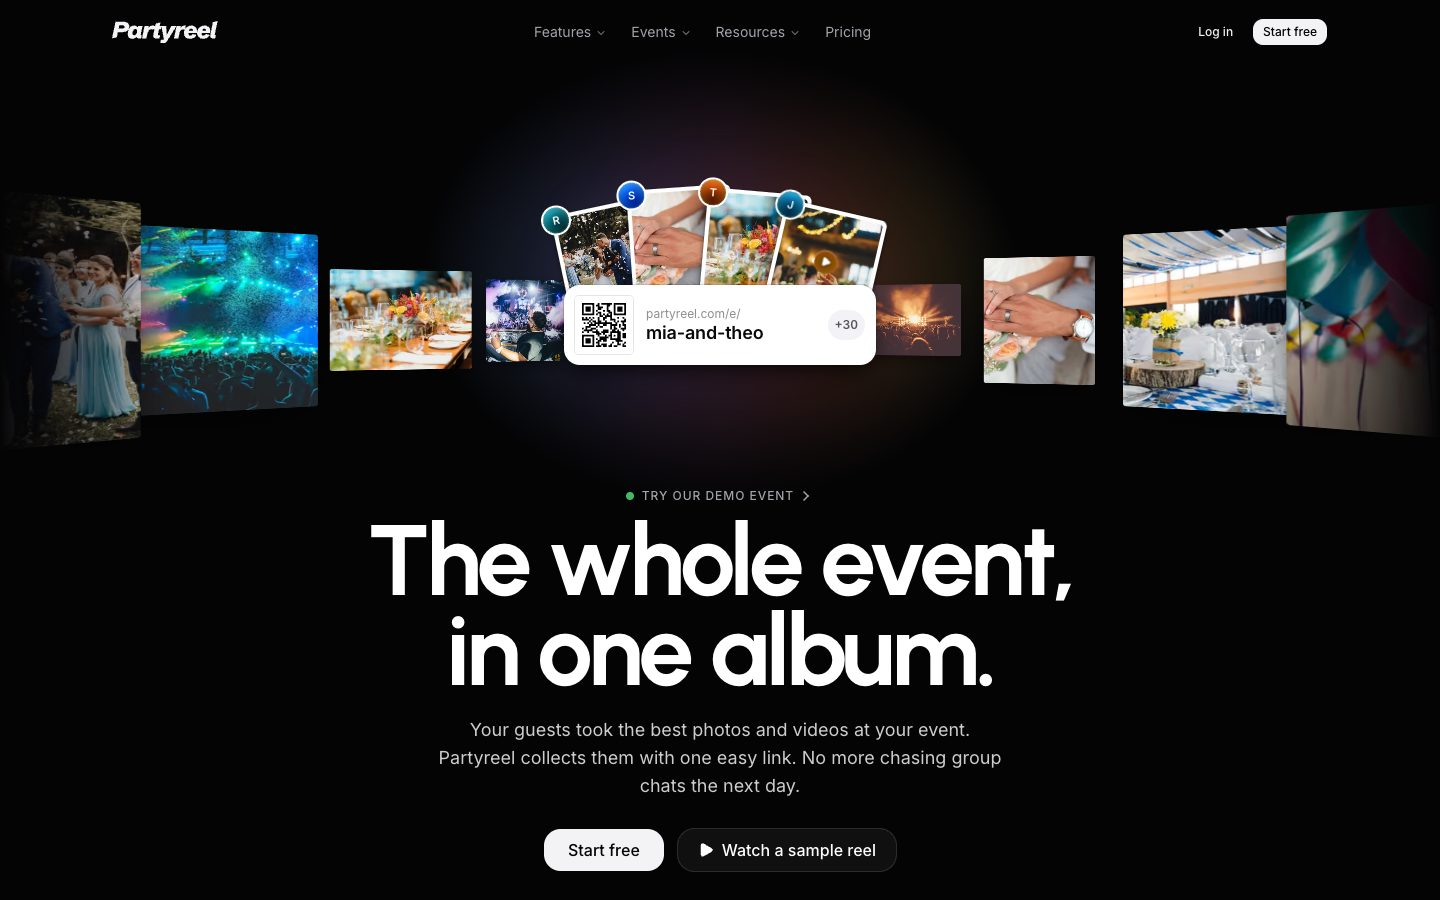
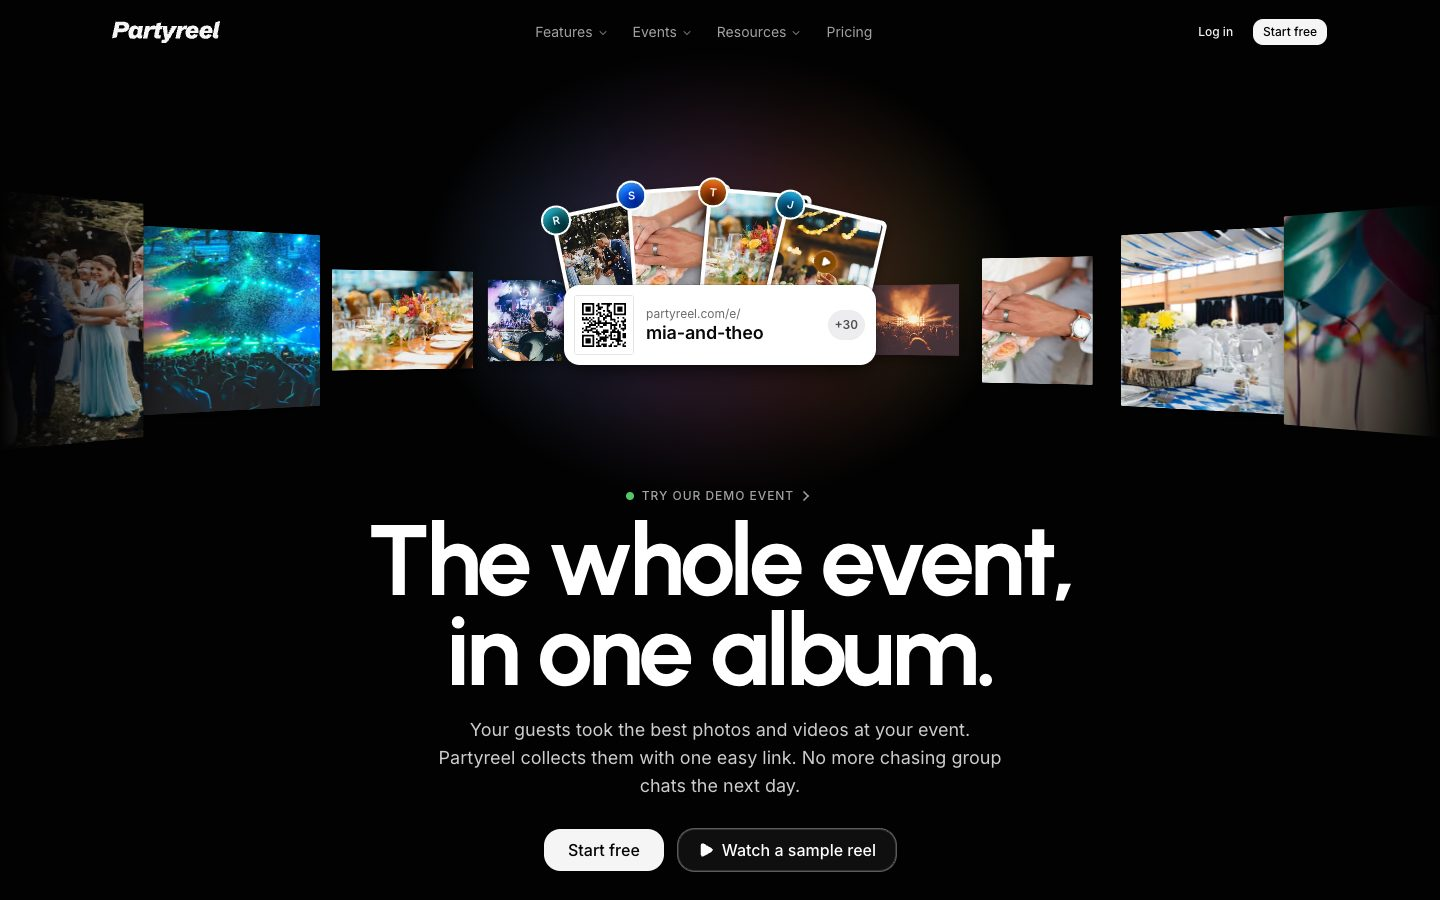
record: milestone 40 live (f1dfc6349, both projects READY, cdn-version's live check MISS then HIT); the kit's screens retaken from partyreel.com [skip ci]

diff --git a/docs/tracks/orchestrator.md b/docs/tracks/orchestrator.md
@@ -23,16 +23,16 @@ model Will seats (Fable or Opus); nothing here depends on which.
 
 ## In flight
 
-Desk 8's wave is in (2026-10-08 00:27Z; then the week 91%, the 5-hour window 75% to 02:10Z). Merged, recorded and
-pruned since its cut, gates 78 to 87 green: account-moments-wiring-2, create-wizard-wiring-2, guests-room-wiring,
-brand-marks-wiring, crumbs-91 (its migration applied on the Advisor's Q45 as 20261007230050), no-signal-wiring,
-crumbs-92 (on Q46 as 20261007233007, advisors 29/4/36, the types regenerated), cdn-version (86: X5's CDN cache, about
-30,000 to 9,600 calls at a lit 100-guest party; its call CL1), and the boards brand-marks-r2 (85: one ask, the icon) and
-event-page-r1 (87: one ask, six whole designs, sky recommended; presence, signature and after-party retired into it, their
-ledgers and create-wizard's deleted at its record). Red-team 58 walked the desk at `42ffd220d` (02:15Z to 03:55Z; ledger `../partyreel-wt/_scratch/redteam-58/ledger.txt`): one MEDIUM (a guest's cover deaf to the host's pause and reopen), three LOWs and three NITs, all fixed by crumbs-93 (gate 88, FULL: milestone 40's full gate at `fe46dbc6a`; its migration applied on the Advisor's Q47 as 20261008050912). The compute model (`$S/compute-40.log`): six scenarios within budget; the two hour scenarios over, the harness's clock shim defeating cdn-version's windows, never production (ROADMAP's Immediate "Cost: the compute model cannot measure" line). Red-team 58b walked crumbs-93's fixes (05:16Z to 06:00Z; ledger `../partyreel-wt/_scratch/redteam-58b/ledger.txt`): the MEDIUM fixed, the three LOWs pass, four NITs (ROADMAP's Immediate). No lane runs: milestone 40 waits on Will's yes. Milestone 40 forms on `launch-prep`: crumbs-88,
-crumbs-90, calls-desk and every merge above. Milestone 39 (`0333cd705`) is live. Will's calls paste's first sections
-are routed; his Deletion and Safety sections are still to come (the Calls place holds 16: his eight, and eight new from
-lanes: CH1, CI1, CI2, CJ1, CK1 to CK3, CL1). Both plan-limit tokens are minted and set.
+**Milestone 40 is live** (2026-10-08 07:40Z, `f1dfc6349`, tagged `milestone-40`; both projects READY; cdn-version's live
+check on partyreel.com answered MISS, then HIT; the kit's screens retaken from partyreel.com). It holds desk 8's wave
+(gates 78 to 87) and crumbs-93 (gate 88: red-team 58's MEDIUM, three LOWs and three NITs; its migration applied on the
+Advisor's Q47 as 20261008050912); gate 89 is its FULL gate; red-teams 58 and 58b left nothing above NIT open; the
+compute model held six scenarios, its two hour scenarios a harness clock artifact. At 07:45Z the week reads 95%
+(resetting 2026-10-13 21:00Z) and the 5-hour window 0%: one small Sonnet lane runs on Immediate's six small lines; X1's
+develop time (with the two plan-limit readers) and the next boards wait for the reset or the other account's seat.
+Will's calls paste's first sections are routed; his Deletion and Safety sections are still to come (the Calls place
+holds 16: his eight, and eight new from lanes: CH1, CI1, CI2, CJ1, CK1 to CK3, CL1). Both plan-limit tokens are minted
+and set.
 
 | lane | what | state | model, port | agent |
 | --- | --- | --- | --- | --- |
@@ -47,30 +47,25 @@ Gate numbers continue at 89 (`$S/gate88.log` seeds a new scratchpad). The sessio
 
 ## Next, in order
 
-1. **Milestone 40 on his yes** (asked 2026-10-08 06:05Z): gate 88 (FULL, `fe46dbc6a`) green, red-teams 58 and 58b
-   (nothing above NIT open), the compute model read (the two hour scenarios a harness artifact); then the runbook's
-   "Milestone" from `launch-prep`'s tip, partyreel.com's pass kept small (Hobby at REFUSE), and on his word cdn-version's
-   live check (an open album's sync answers `x-vercel-cache` MISS, then HIT). After it ships: the kit's screens refresh
-   from partyreel.com (`usher/kit/kit-capture.mjs`: brand-marks-wiring changed the marks and tokens).
-2. **His desk** (:3000) serves the event-page-r1 record: event-page r1 (desk 4) opens first, brand-marks r2's icon
+1. **His desk, desk 9** (:3000) serves `ae16365c3`, milestone 40's code: event-page r1 (desk 4) opens first, brand-marks r2's icon
    beside it; his batch is kept verbatim, then transcribed; never refreshed while a red-team walks it. Then, as seats
    free (six to eight agents, `get_usage` at every cut): the event page's wiring once he picks its direction (one lane
    builds the whole: faces, the offer, the keepsake, the light, the end line; event-page-r1's Handoff holds the wiring
    notes), and fresh whole designs on the next surfaces in its language, by leverage: the dashboard home and its event
    cards, the door, her own page (`/me` and the public page, folding account-moments r3's teaser), Settings (only the
    optional and Create's changes, never steps: ROADMAP's "Settings' rail reads as steps" line).
-3. **Waiting to cut when the week allows:** X1's develop time (the ROADMAP's Immediate Disposable line) with the two
+2. **Waiting to cut when the week allows:** X1's develop time (the ROADMAP's Immediate Disposable line) with the two
    plan-limit readers (Upcoming, Billing), and Settings' board.
-4. **The order to launch holds marketing back** (PROGRAM.md): the marketing foundation, site and visuals wait for the
+3. **The order to launch holds marketing back** (PROGRAM.md): the marketing foundation, site and visuals wait for the
    app to settle, then go from the ground up (sitemap first). Waiting there: page themes, demo-framing r6, marketing's
    light, N4, N7, N9, and the ROADMAP's marketing lines unless one breaks production.
-5. **His list of 100+ items, when he sends it** (Will, 2026-10-06): each batch kept verbatim first, slotted into the
+4. **His list of 100+ items, when he sends it** (Will, 2026-10-06): each batch kept verbatim first, slotted into the
    ROADMAP's buckets and areas, a proposed order of rounds on top.
-6. **The alias serves `bbfcc544`** (deployed once on his word); no other deploy until he asks.
-7. **★ Vercel stays on Hobby** (Will, 2026-10-07): about 3.86 of 4 CPU-hours over 30 days (REFUSE), falling toward the
+5. **The alias serves `bbfcc544`** (deployed once on his word); no other deploy until he asks.
+6. **★ Vercel stays on Hobby** (Will, 2026-10-07): about 3.86 of 4 CPU-hours over 30 days (REFUSE), falling toward the
    REFUSE line around 2026-10-16. Nothing runs against the alias or partyreel.com but what Will asks for by name;
    `node usher/kit/vercel-usage.mjs` before any.
-8. **Pacing** (Will, 2026-10-07): the weekly pace is no concern; only that the 5-hour window never kills a running lane
+7. **Pacing** (Will, 2026-10-07): the weekly pace is no concern; only that the 5-hour window never kills a running lane
    (nothing starts that would outrun its reset), the machine holds its peak and the Orchestrator keeps its depth. Lanes
    sized to close before the weekly limit run; token efficiency is the compounding win (the runbook's line: a lane near
    800K of context a turn draws the window several times faster than a fresh one). A lane the limit stops is respawned

diff --git a/docs/STATUS.md b/docs/STATUS.md
@@ -13,16 +13,16 @@ and the launch switches unspent ([`ROADMAP.md`](ROADMAP.md) → Launch). Work ri
 catalog in the lab, Will's verdicts on the desk, then the wiring; partyreel.com changes only at tagged milestone merges.
 Nothing is protected: every page, the host app and the guest pages are open to be reconceived from the ground up.
 
-## The current round: round 15, milestone 39 live, desk 8's wave 1 merged
+## The current round: round 15, milestone 40 live, desk 9 waiting on Will
 
-- **Milestone 39 is live** (`0333cd705`, 2026-10-07 16:15Z, tagged; its merge commit says what it holds): desk 7's
-  moments, the storage sums proven nightly, a names-only door, the site brought to today's product, and Send to Google
-  Drive live. Red-teamed by 57, 57b and 57c (nothing above LOW open). Milestone 40 forms on `launch-prep`: crumbs-88,
-  crumbs-90, calls-desk, and desk 8's wave 1, merged whole.
-- **Desk 8 answered, wave 1 merged** (2026-10-08 00:27Z, gates 78 to 87 green): six wirings (the marks and status
-  tiers, Create, the offline send, the Guests room, following and her page's plate, the crumbs with AY1's turn at her
-  close), X5's CDN-cached album, K5's two quiet years and X6's uploads credit; the event page redrawn whole (Will's idea
-  1 led) and the bespoke icon wait on his desk. The Orchestrator sits on Will's Mac; its lanes run in local worktrees.
+- **Milestone 40 is live** (`f1dfc6349`, 2026-10-08 07:40Z, tagged; its merge commit says what it holds): desk 8 wired
+  (Create's payoff, no signal at a party, the Guests room, the brand's final marks), an album turning at her close, and
+  an open album's version at the CDN (MISS, then HIT, on partyreel.com). Red-teamed by 58 and 58b (nothing above NIT
+  open); the kit's screens retaken from partyreel.com. `launch-prep` equals `main`; the next round forms there.
+- **Desk 9 waits on Will** (2026-10-08): the event-page board (the event page from the ground up, six whole designs, sky
+  recommended) and brand-marks r2's icon. ROADMAP's Immediate holds red-team 58b's four NITs and the compute model's
+  harness fix. The Orchestrator sits on Will's Mac; its lanes run in local worktrees, paced by the 5-hour window and the
+  week.
 - **Vercel stays on Hobby** (Will, 2026-10-07): about 3.86 of 4 CPU-hours over 30 days, under the REFUSE line around
   2026-10-16; nothing of ours runs on Vercel but what Will asks for by name (`CLAUDE.md`).
 
@@ -31,19 +31,19 @@ Nothing is protected: every page, the host app and the guest pages are open to b
 Will's desk (`localhost:3000/design/lab?key=fiesta`; refreshed by `S=<scratch> zsh usher/kit/desk-refresh.sh <sha>`)
 answered desk 8 on 2026-10-07 (`docs/reviews/batches/2026-10-07-b0eb89bc9.txt`): brand-marks, signature, presence,
 after-party, no-signal, guests-room, account-moments r2 and create-wizard r5, three asks unclear (atmosphere, recap,
-card), now the event-page board's. It serves the event-page-r1 record (2026-10-08): event-page r1 (desk 4) opens first,
+card), now the event-page board's. It serves `ae16365c3`, milestone 40's code: event-page r1 (desk 4) opens first,
 brand-marks r2's icon beside it; the Calls place holds 16 entries.
 
 ## Live state
 
-- **Prod:** partyreel.com is `main` at milestone 39 (`0333cd705`, tagged `milestone-39`), both projects READY. Its
+- **Prod:** partyreel.com is `main` at milestone 40 (`f1dfc6349`, tagged `milestone-40`), both projects READY. Its
   crons: the purge at 04:00 UTC and the spend watch at 05:00. Drive's Worker (`partyreel-drive`, version `96513f29`)
   leases from partyreel.com every 15 minutes; `DRIVE_WORKER_URL` is set on production; Will's Drive walk is next.
 - **The alias** (`https://partyreel-git-launch-prep-partyreel.vercel.app`) serves `bbfcc544` (2026-10-06 19:45Z), deployed
   once on Will's word for his desk review; no other deploy until he asks. Vercel installs with pnpm 9.14.4.
 - **The shared database** runs every migration through `crumbs_93` (2026-10-08, applied as 20261008050912), each by protocol (the
   Advisor's read, the file's md5 matched), each an expand the older build ran beside; no build reads a dropped thing.
-  Advisors stand at 27 / 4 / 36 ([`systems/database-security.md`](systems/database-security.md)).
+  Advisors stand at 29 / 4 / 36 ([`systems/database-security.md`](systems/database-security.md)).
 - **Data:** every event, media item and account is test data, free to change, reset or delete (Will, 2026-09-25);
   signups stay off until launch, so nothing real arrives. The accounts and fixtures are in
   [`systems/testing-verification.md`](systems/testing-verification.md).

diff --git a/docs/ROADMAP.md b/docs/ROADMAP.md
@@ -60,6 +60,7 @@ to the surfaces built on them. A line marked `[unsure: …]` is real but its wan
 - Vercel / Next.js optimization: one `getUser()` a request: a route handler misses React's `cache()`, so a signed-in album request asks Auth twice (`events/album-viewer.server.ts:74,99`; PRICING.md lever 3).
 - Upkeep: a contract migration drops `standby_hosts` with its test pins and renames `host_storage_summary.standby_bytes` to `deleted_bytes` (DROP + CREATE) with `readHostStorageSummary`; since `upload_sums` the rename carries `host_storage_walk`'s OUT column, `storage_sums_drift`'s comparison and the `standby_bytes` keys of its answer, and `rebuild_storage_sums`' before and after (with whatever reads them, the storage sums' signal lane included).
 - Docs: a prune pass over `PRICING.md`, `systems/billing-caps.md`, `systems/reel.md` and `PRD.md` by CLAUDE.md's "Keeping the docs healthy" (docs-prune counted about 92 history and restatement lines there on 2026-10-04, never applied) (scratch-synthesis).
+- Cost: `/pricing`'s first render after milestone 40's deploy took about 30 s on partyreel.com (curl's limit; the CDN then answered HIT in 0.47 s): find what that render waits on, and render it at the build if it can be (milestone 40).
 
 ### Security and abuse
 
